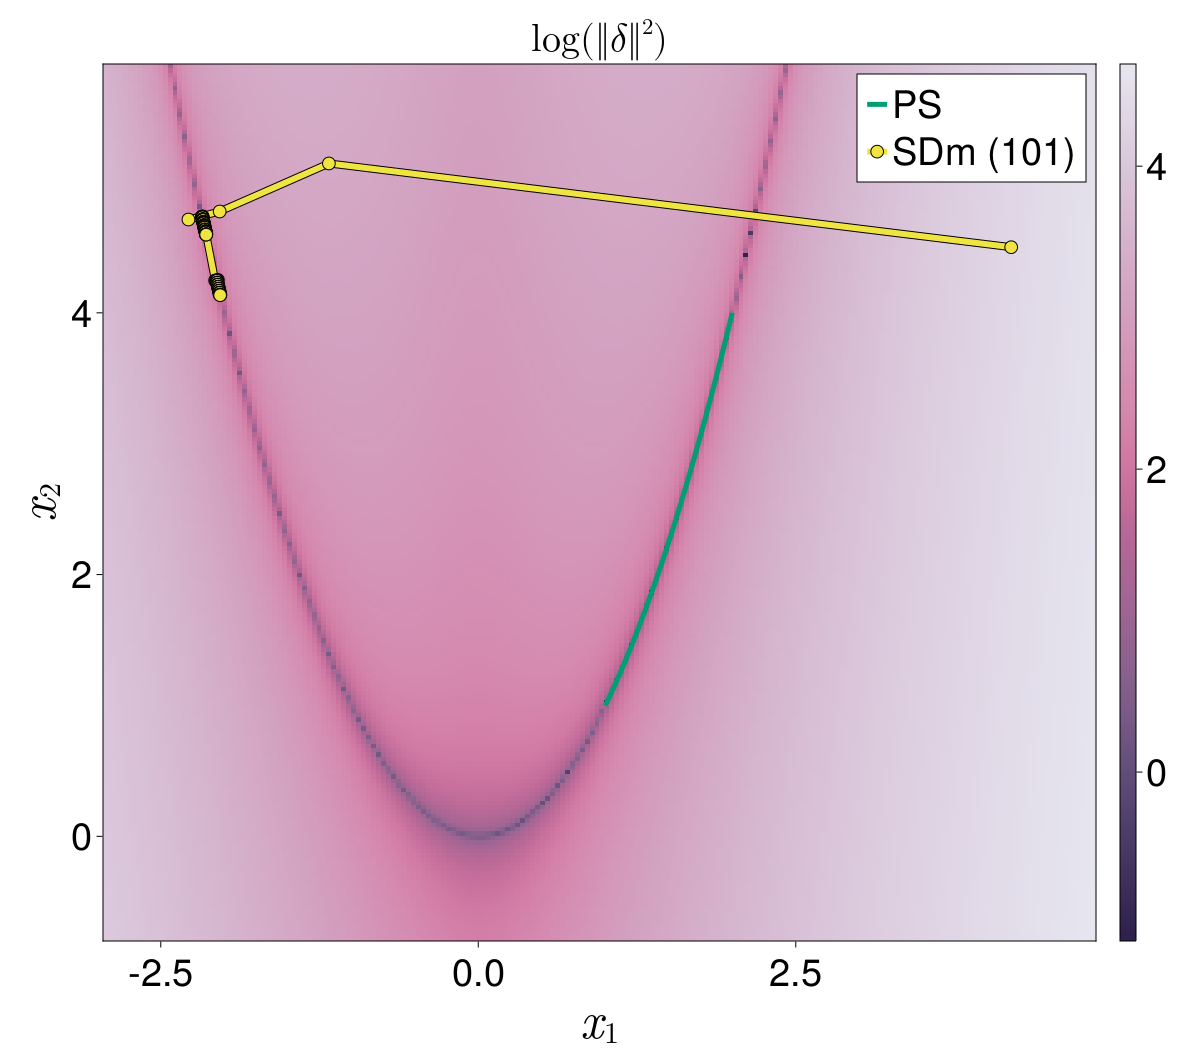
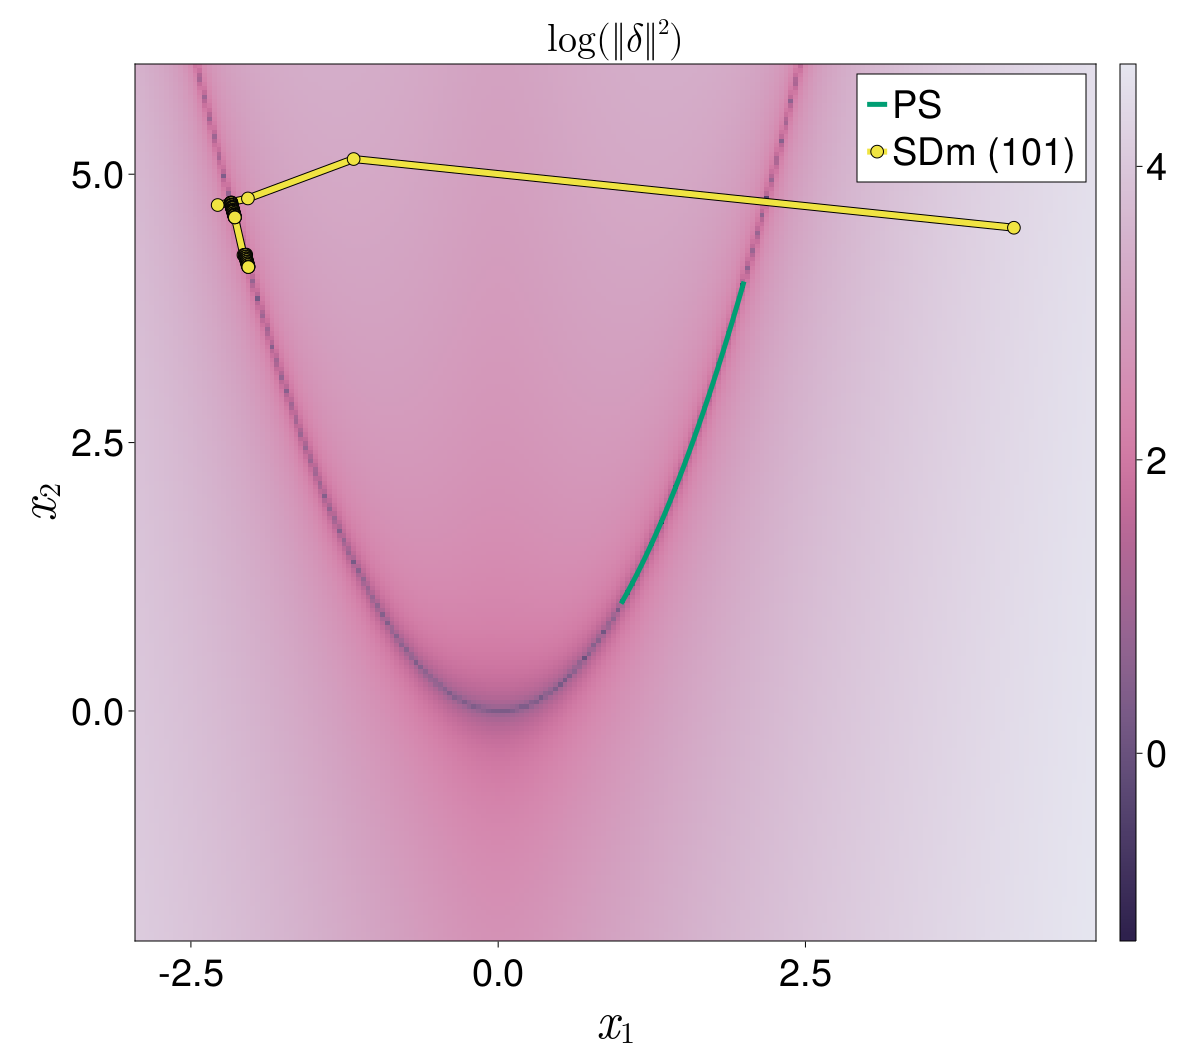
touch up on plots, quad approx initial stepsize

diff --git a/docs/src/slides/index.html b/docs/src/slides/index.html
@@ -544,6 +544,8 @@
 											<img  width="920px" class="fragment fade-in-then-out" src="./assets/rosenbrock_trajectory_SDm .png" />
 											<img  width="920px" class="fragment fade-in-then-out" src="./assets/rosenbrock_trajectory_PRP3.png" />
 											<img  width="920px" class="fragment fade-in-then-out" src="./assets/rosenbrock_trajectory_PRP2.png" />
+											<img  width="920px" class="fragment fade-in-then-out" src="./assets/rosenbrock_trajectory_SDsz .png" />
+											<img  width="920px" class="fragment fade-in-then-out" src="./assets/rosenbrock_trajectory_PRP3sz .png" />
 											<img  width="550px" class="fragment fade-in-then-out" src="./assets/rosenbrock_crit_trajectory_SD.png" />
 											<img  width="550px" class="fragment fade-in-then-out" src="./assets/rosenbrock_crit_trajectory_PRP3.png" />
 											<img  width="550px" class="fragment fade-in" src="./assets/rosenbrock_crit_trajectory_FR.png" />
@@ -584,6 +586,7 @@
 											</ul>
 										</li>
 									</ul>
+									<small style="position:absolute;bottom:10px;right:10px;vertical-align:baseline;">manuelbb@mail.uni-paderborn.de</small>
 								</section>
 								<section>
 									<h2>References</h2>

diff --git a/README.md b/README.md
@@ -7,6 +7,7 @@ but don't expect anything particularly usable or stable.
 
 As things are changing fast behind the scenes, please refer to the [docs](https://manuelbb-upb.github.io/MultiobjectiveNonlinearCG/)
 for usage hints.
+The slides are linked there, too.
 
 The package is not (yet) registered, but you can install it from master via
 ```julia
